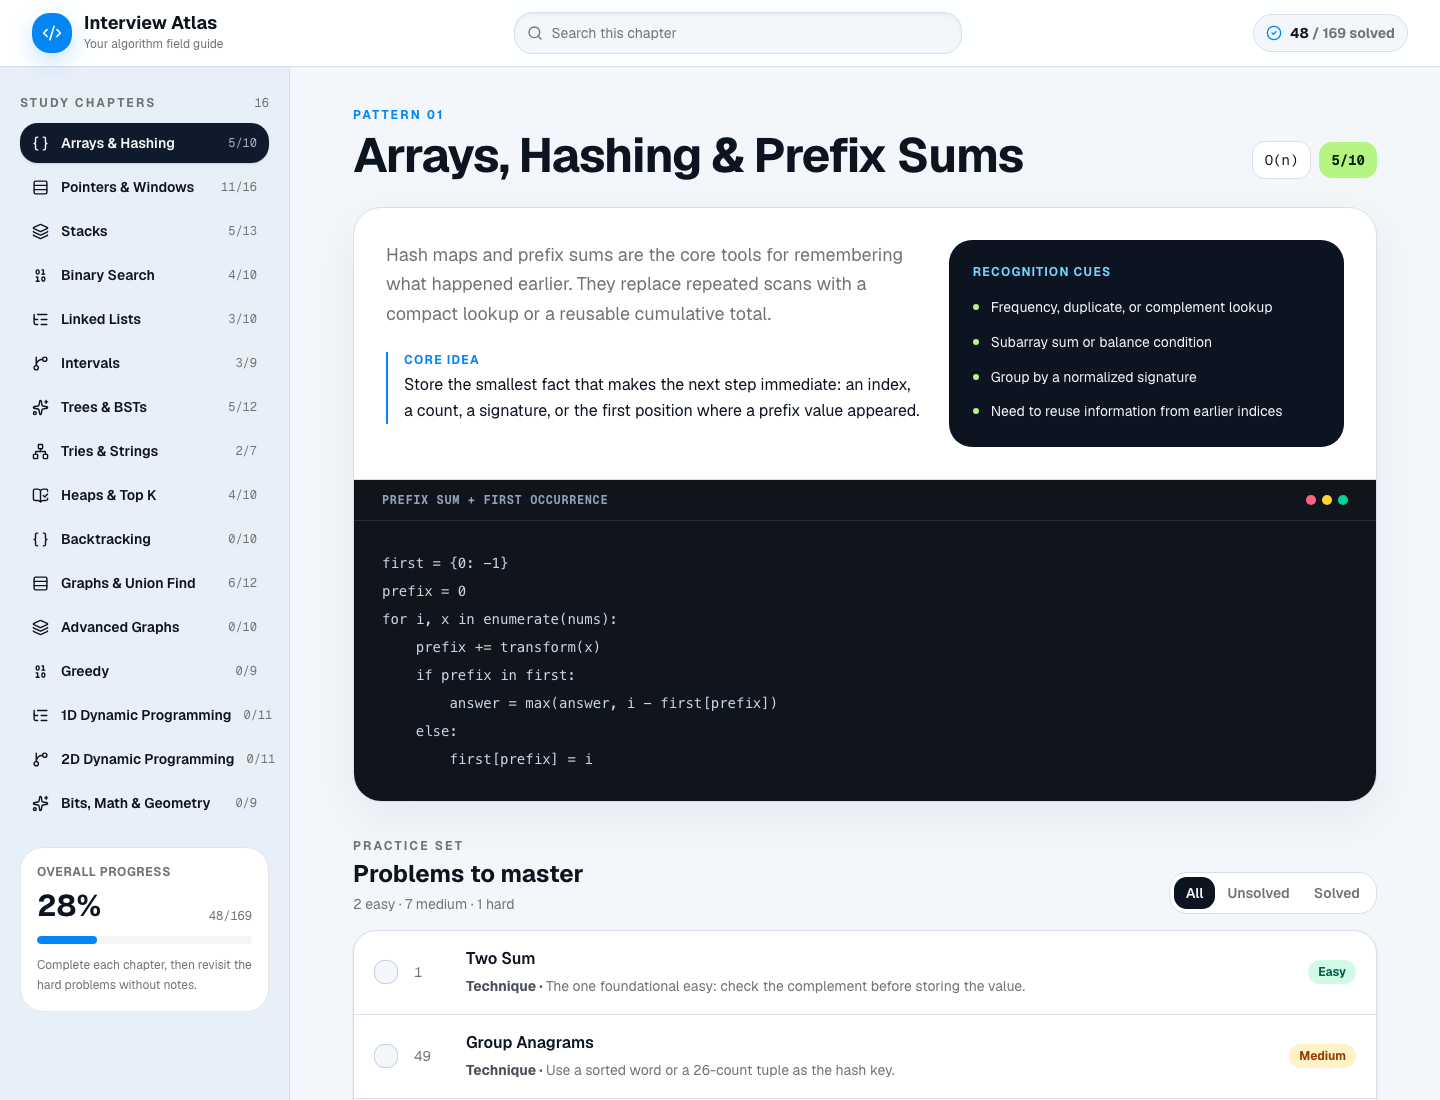
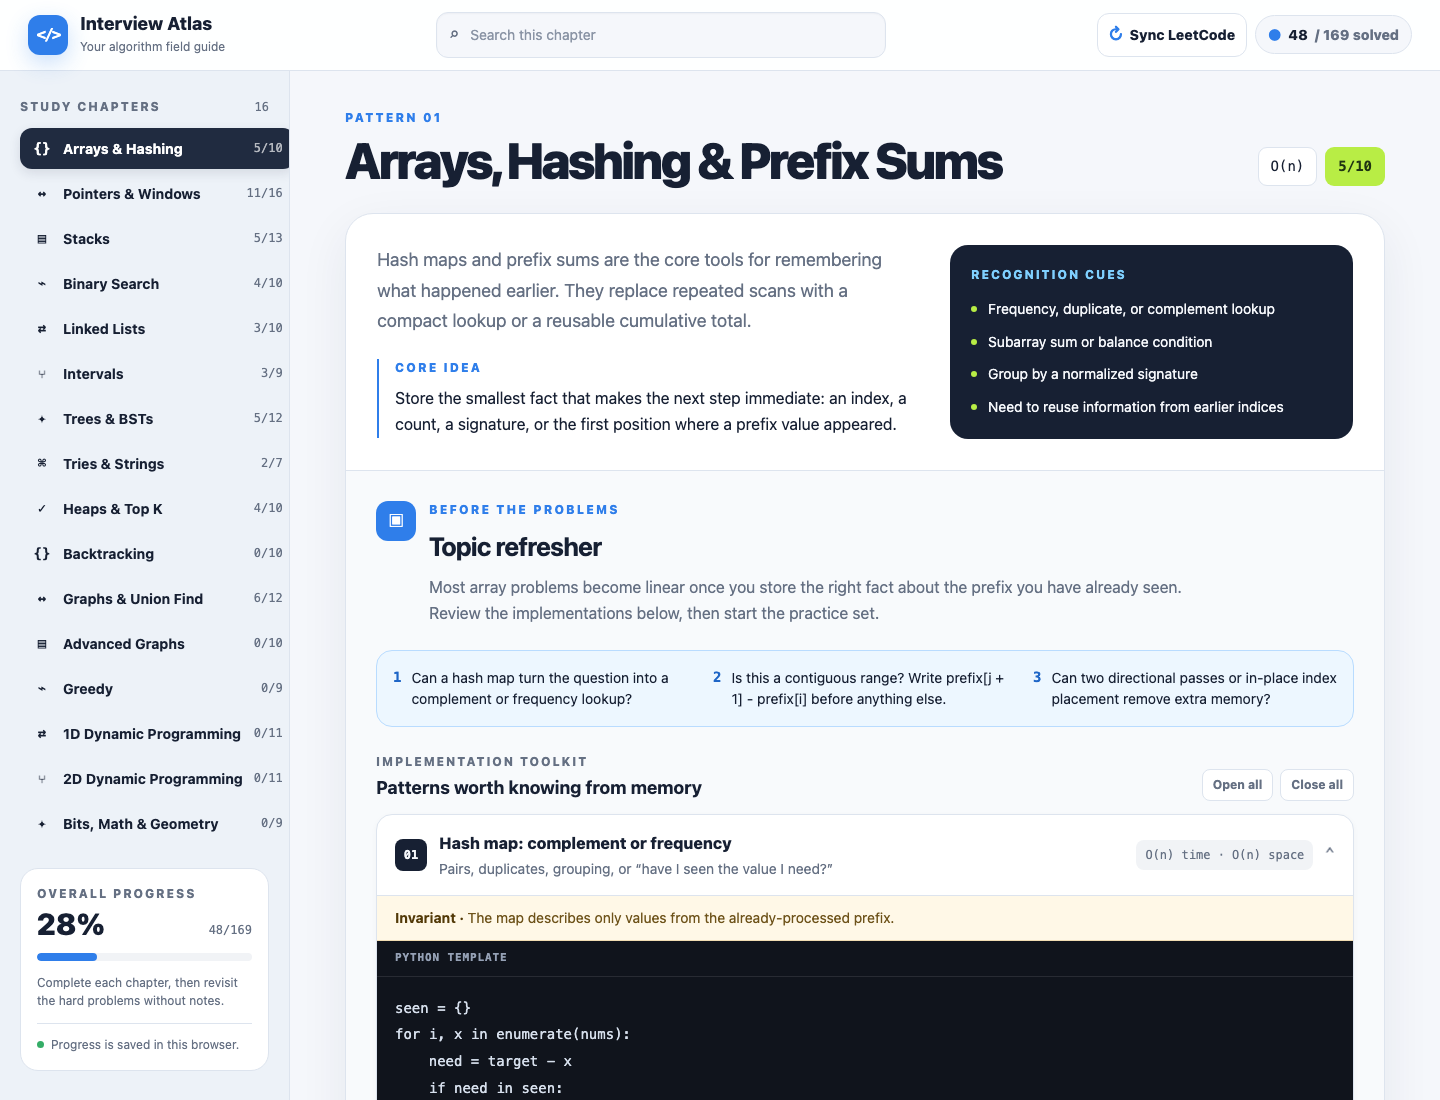
Refresh README preview

diff --git a/README.md b/README.md
@@ -4,11 +4,7 @@ Interview Atlas is an interactive study guide and progress tracker for coding in
 
 ## Preview
 
-![Interview Atlas desktop dashboard](docs/screenshots/interview-atlas-desktop.png)
-
-<p align="center">
-  <img src="docs/screenshots/interview-atlas-mobile.png" alt="Interview Atlas mobile dashboard" width="360" />
-</p>
+![Interview Atlas topic refresher and progress dashboard](docs/screenshots/interview-atlas-desktop.png)
 
 ## Features
 
@@ -37,10 +33,17 @@ For the simplest local option, open the project folder and double-click
 `interview-atlas.html`. It works directly in your browser—there is no setup,
 Node.js, npm command, or local server.
 
+The HTML file is fully standalone: its styles, scripts, chapters, reminders,
+and implementation templates are embedded in the file. You can move or share
+`interview-atlas.html` by itself and open it without installing anything or
+running a server.
+
 The standalone version includes the same chapters, problem notes, search,
-filters, LeetCode links, and progress tracking. Progress is stored locally in
-the browser, so it is specific to that browser and computer rather than synced
-through the database.
+filters, LeetCode links, full-history LeetCode JSON import, and progress
+tracking. Progress is stored locally in the browser, so it is specific to that
+browser and computer rather than synced through the database. Opening LeetCode
+links or downloading a fresh progress export still requires an internet
+connection.
 
 ## Run the full app locally
 
